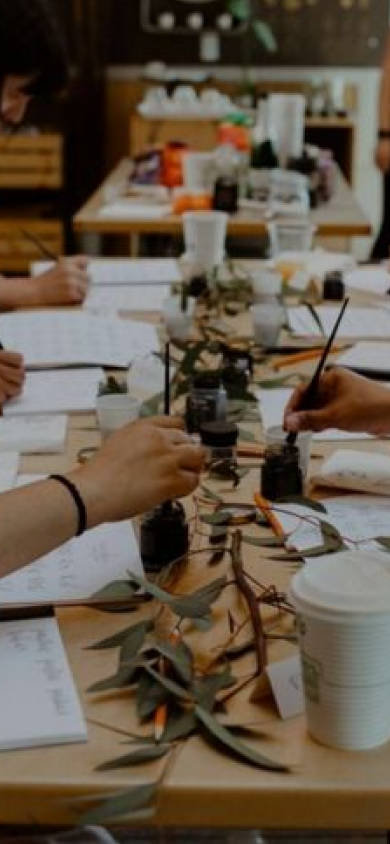
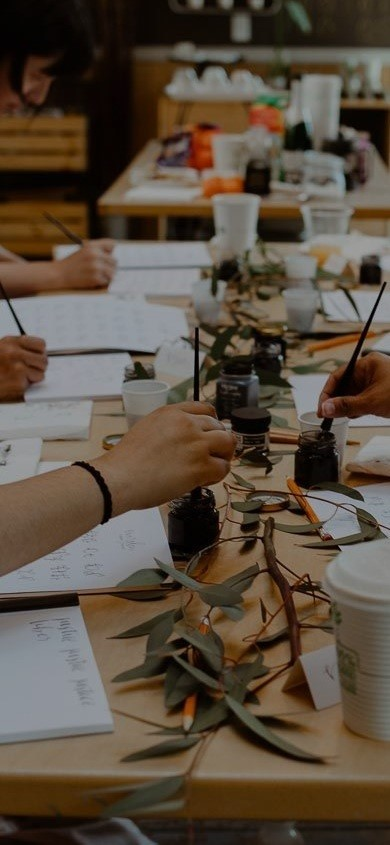
auth bg enhancement

diff --git a/lib/screens/auth_screens/bloc/auth_bloc.dart b/lib/screens/auth_screens/bloc/auth_bloc.dart
@@ -1,11 +1,10 @@
 import 'dart:async';
 import 'dart:developer';
-// import 'dart:math';
+import 'dart:math' as mm;
 import 'package:flutter/material.dart';
 import 'package:flutter_bloc/flutter_bloc.dart';
 import 'package:get_it/get_it.dart';
 import 'package:shaghaf/data_layer/supabase_layer.dart';
-import 'package:supabase_flutter/supabase_flutter.dart';
 
 part 'auth_event.dart';
 part 'auth_state.dart';
@@ -13,8 +12,8 @@ part 'auth_state.dart';
 class AuthBloc extends Bloc<AuthEvent, AuthState> {
   final supabaseLayer = GetIt.I.get<SupabaseLayer>();
   TextEditingController otpController = TextEditingController();
-  // final String externalId = Random().nextInt(999999999).toString();
-  final String externalId = '1234567890';
+  final String externalId = mm.Random().nextInt(999999999).toString();
+  // final String externalId = '1234567890';
 
   AuthBloc() : super(AuthInitial()) {
     on<CreateAccountEvent>(createUserAccountMethod);
@@ -27,17 +26,14 @@ class AuthBloc extends Bloc<AuthEvent, AuthState> {
       CreateAccountEvent event, Emitter<AuthState> emit) async {
     try {
       emit(LoadingState());
-      final AuthResponse response = await supabaseLayer.createAccount(
-          email: event.email, password: event.password);
-          
+      await supabaseLayer.createAccount(email: event.email, password: event.password);
       emit(SuccessState());
     } catch (e) {
       emit(ErrorState(msg: 'User already exists or something went wrong :('));
     }
   }
 
-  FutureOr<void> verifyOtpMethod(
-      VerifyOtpEvent event, Emitter<AuthState> emit) async {
+  FutureOr<void> verifyOtpMethod(VerifyOtpEvent event, Emitter<AuthState> emit) async {
     try {
       emit(LoadingState());
       await supabaseLayer.verifyOtp(
@@ -82,8 +78,7 @@ class AuthBloc extends Bloc<AuthEvent, AuthState> {
         log('no');
       }
       if (role == 'user' || role == 'organizer') {
-         await supabaseLayer.supabase.auth
-            .signInWithPassword(email: event.email, password: event.password);
+        await supabaseLayer.supabase.auth.signInWithPassword(email: event.email, password: event.password);
         // log(login.toString());
         emit(SuccessState(role: role));
       }
@@ -93,8 +88,7 @@ class AuthBloc extends Bloc<AuthEvent, AuthState> {
     }
   }
 
-  Future<void> verifyOrganizerOtpMethod(
-      VerifyOrganizerOtpEvent event, Emitter<AuthState> emit) async {
+  Future<void> verifyOrganizerOtpMethod(VerifyOrganizerOtpEvent event, Emitter<AuthState> emit) async {
     try {
       emit(LoadingState());
       await supabaseLayer.verifyOrganizerOtp(
